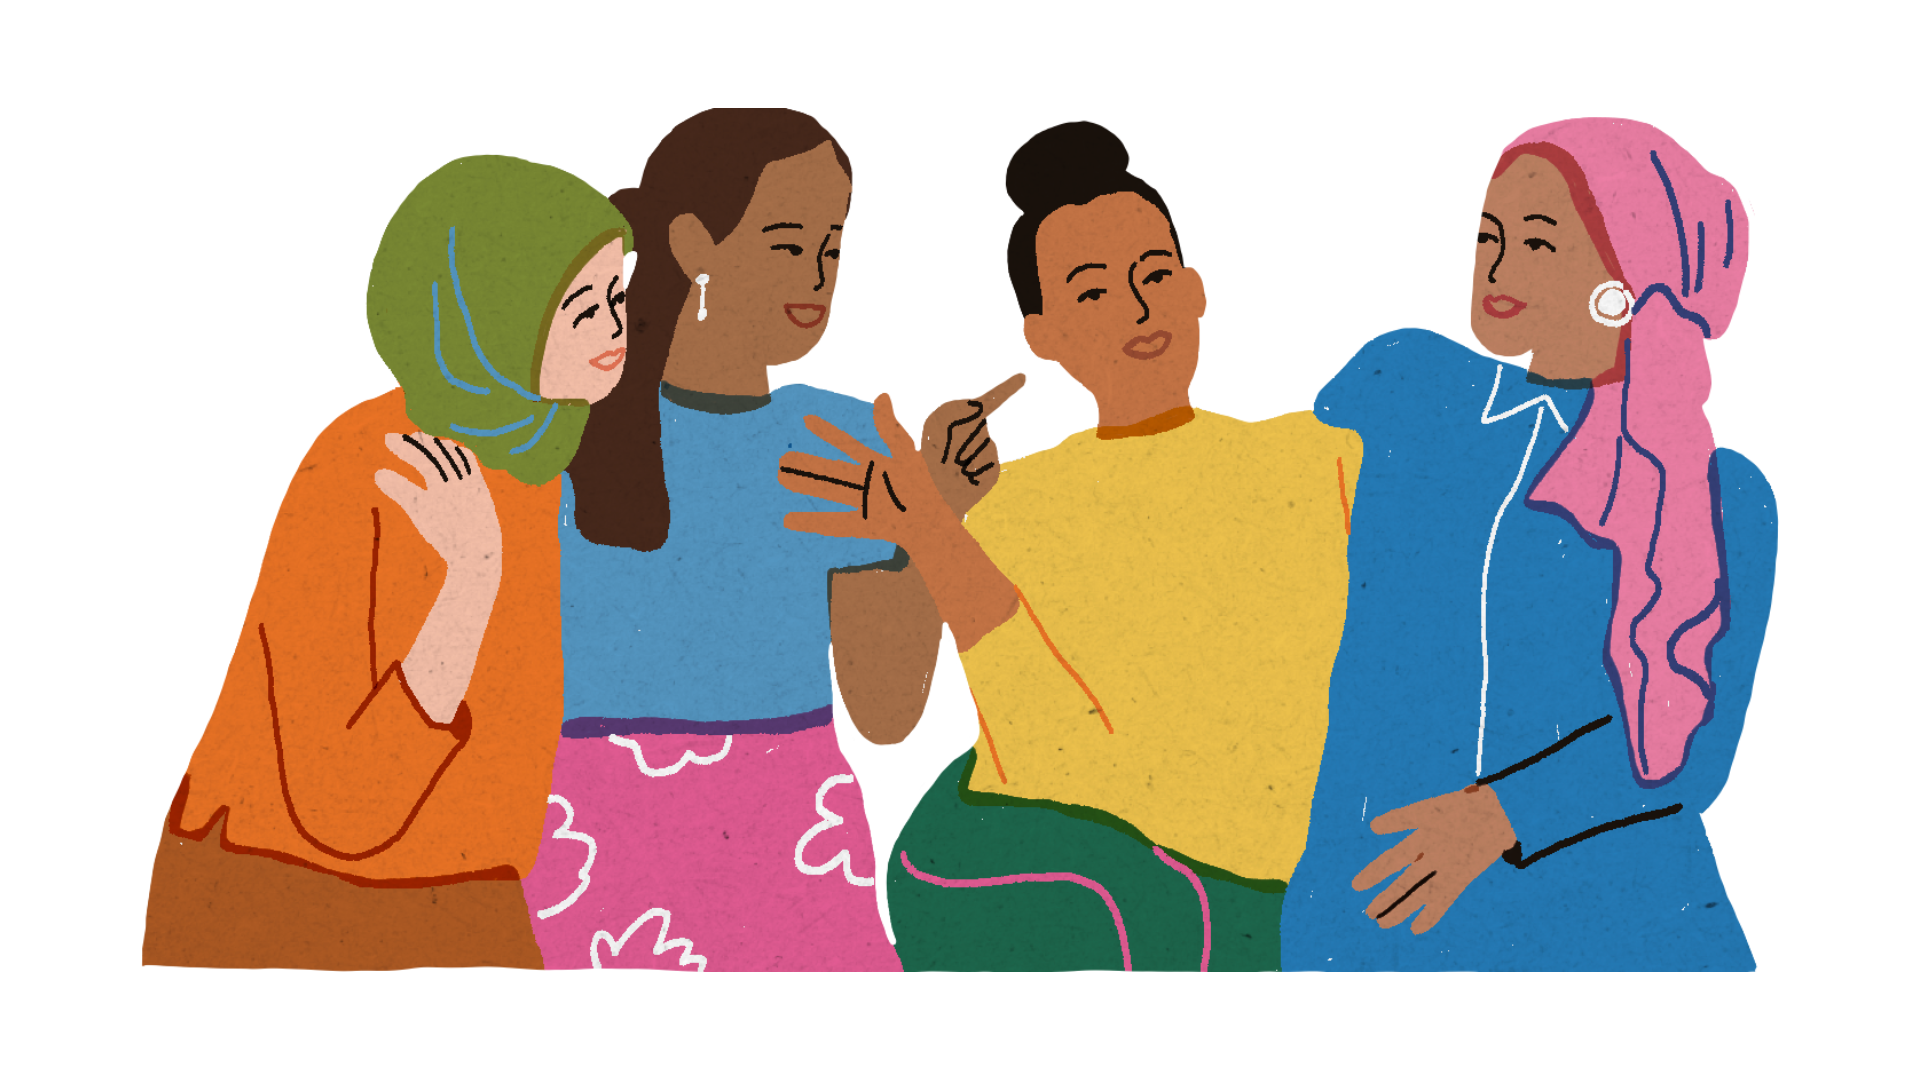
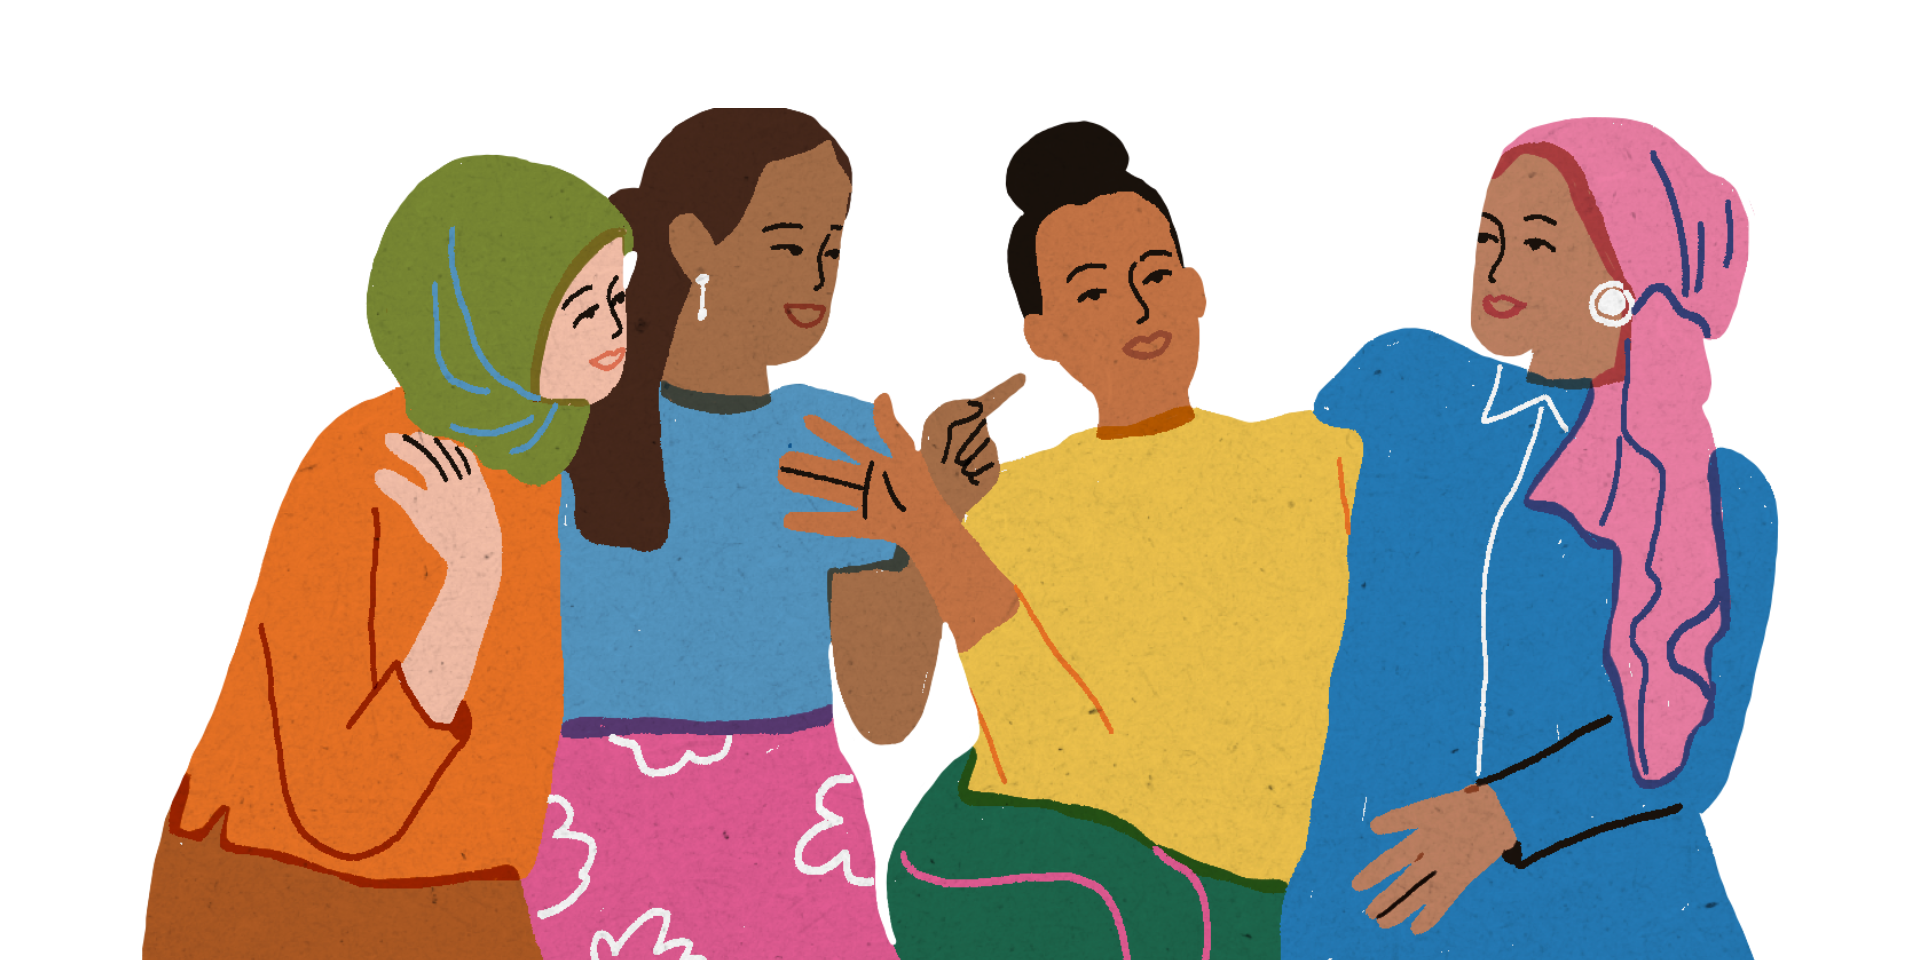
Changed onboarding images

diff --git a/app/onboarding.tsx b/app/onboarding.tsx
@@ -14,24 +14,24 @@ import {
 
 const { width, height } = Dimensions.get('window');
 
-const COLORS = { primary: '#282534', white: '#fff' };
+const COLORS = { primary: '#282534', white: '#fff', black: 'black' };
 
 const slides = [
   {
     id: '1',
-    image: require('../assets/images/slide1.png'),
+    image: require('../assets/images/banner.png'),
     title: 'Onboarding',
     subtitle: 'Du kan chatta med vänner i vår app!',
   },
   {
     id: '2',
-    image: require('../assets/images/slide1.png'),
+    image: require('../assets/images/slide.png'),
     title: 'Onboarding',
     subtitle: 'Dela dina känsliga uppgifter med oss! ',
   },
   {
     id: '3',
-    image: require('../assets/images/slide1.png'),
+    image: require('../assets/images/slide0.png'),
     title: 'Onboarding',
     subtitle: 'Det är så enkelt: du får kommunikation med vänner, vi får att som du har!',
   },
@@ -45,7 +45,7 @@ const Slide = ({ item }: { item: typeof slides[0] }) => {
         <Text style={styles.subtitle}>{item.subtitle}</Text>
         <Image
         source={item.image}
-        style={{ height: '190%', width: '100%', resizeMode: 'contain', marginTop: 40 }}
+        style={{ height: '180%', width: '100%', resizeMode: 'contain', marginTop: 40 }}
       />
     </View>
   );
@@ -54,7 +54,7 @@ const Slide = ({ item }: { item: typeof slides[0] }) => {
 export default function OnboardingScreen() {
   const [currentSlideIndex, setCurrentSlideIndex] = React.useState(0);
   const ref = React.useRef<FlatList>(null);
-  const router = useRouter(); 
+  const router = useRouter();
 
   const updateCurrentSlideIndex = (e: any) => {
     const contentOffsetX = e.nativeEvent.contentOffset.x;
@@ -150,7 +150,7 @@ export default function OnboardingScreen() {
   };
 
   return (
-    <SafeAreaView style={{ flex: 1, backgroundColor: COLORS.primary }}>
+    <SafeAreaView style={{ flex: 1, backgroundColor: COLORS.black }}>
       <StatusBar backgroundColor={COLORS.primary} />
       <FlatList
         ref={ref}

diff --git a/app/index.tsx b/app/index.tsx
@@ -37,7 +37,7 @@ const styles = StyleSheet.create({
     marginBottom: 8,
   },
   banner: {
-    height: 200,
+    height: 222,
     width: 400,
     bottom: -20,
     left: 0,
